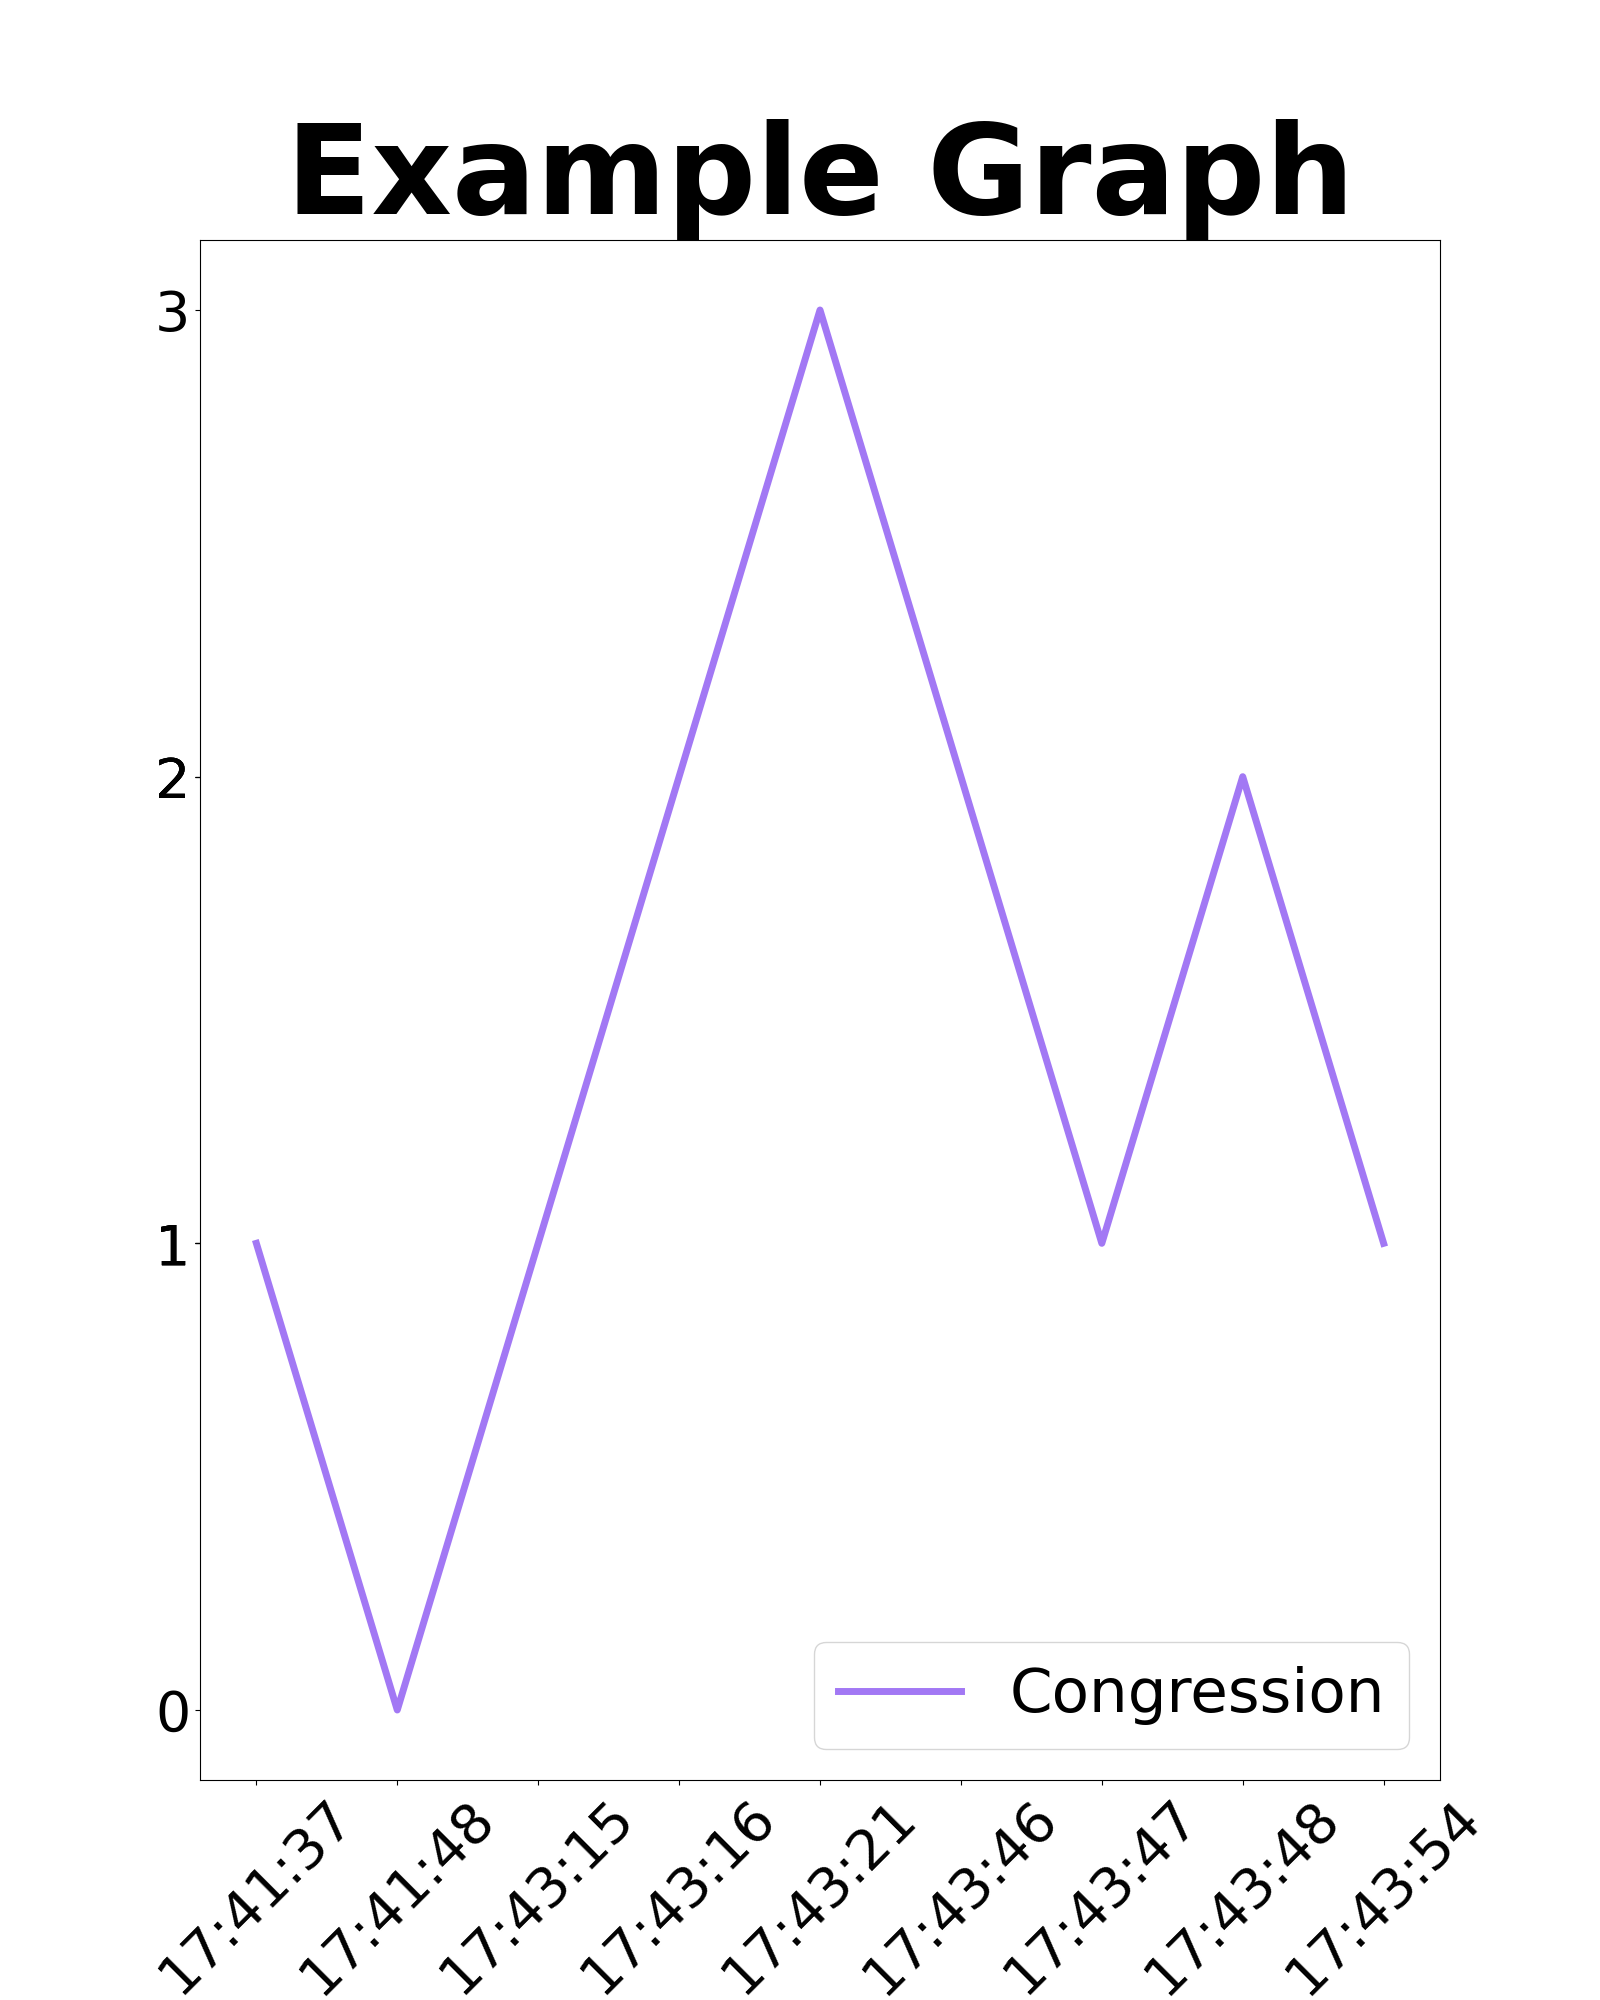
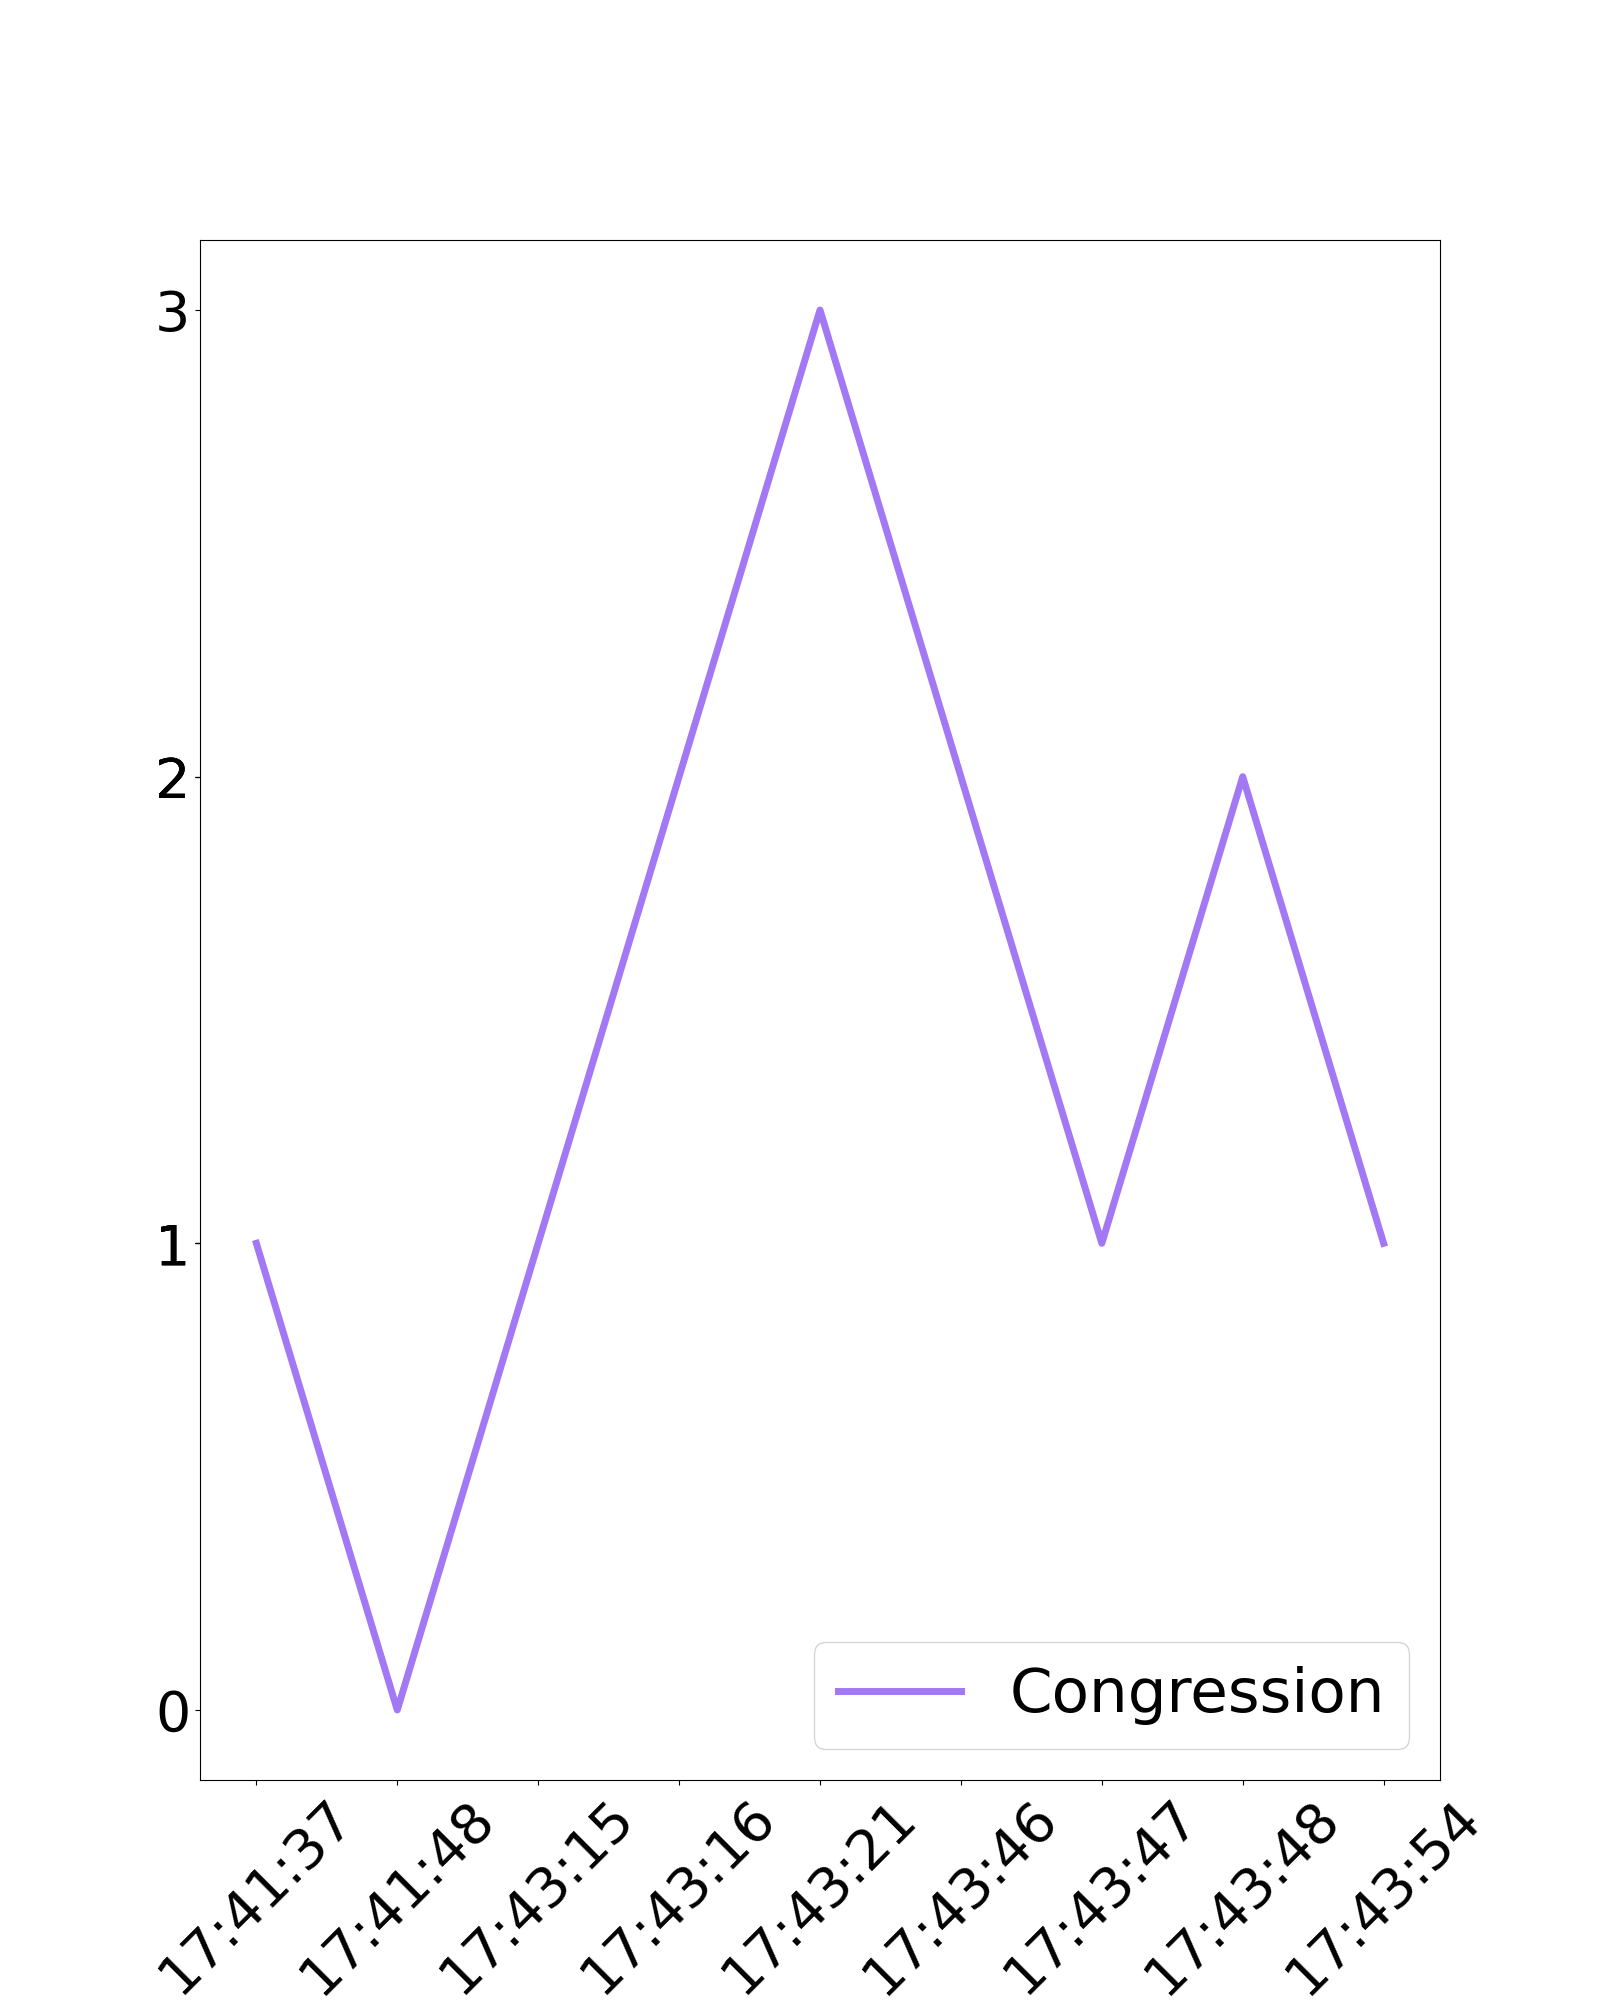
daily graph

Changed region(s): [[0.1875, 0.062, 0.8438, 0.124]]

diff --git a/iot_app/templates/congression.html b/iot_app/templates/congression.html
@@ -277,8 +277,8 @@
                 $('select[name=selYear] option[value='+year+']').attr("selected",true);
                 $('select[name=selMonth] option[value='+month+']').attr("selected",true);
                 $('select[name=selDay] option[value='+date+']').attr("selected",true);
-                document.getElementById("dailyGraph").src = "/static/"+year+month+date+".png";
-
+                // document.getElementById("dailyGraph").src = "/static/"+year+month+date+".png";
+                document.getElementById("dailyGraph").src = "/static/example.png";
             }
             function search() {
                 const year = $("select[name=selYear]").val();

diff --git a/iot_app/views.py b/iot_app/views.py
@@ -107,7 +107,6 @@ def congression(request):
         else:
             day = str(datetime.datetime.now().day)
         # plt.title(str(datetime.datetime.now().year)+'/'+str(datetime.datetime.now().month)+'/'+day, fontsize=90, fontname="Inter", fontweight="bold")
-        plt.title("Example Graph", fontsize=90, fontname="Inter", fontweight="bold")
 
         ax.legend(fontsize=44)
         # plt.show()

diff --git a/IOT/settings.py b/IOT/settings.py
@@ -23,7 +23,7 @@ BASE_DIR = Path(__file__).resolve().parent.parent
 SECRET_KEY = 'django-insecure-4bhlj^bwym2hbtwb&6!*j8*hq5+1=9jfmk)!$-liq6dbgn*-ef'
 
 # SECURITY WARNING: don't run with debug turned on in production!
-DEBUG = False
+DEBUG = True
 
 ALLOWED_HOSTS = ['congressionyonsei.pythonanywhere.com', '127.0.0.1']
 
